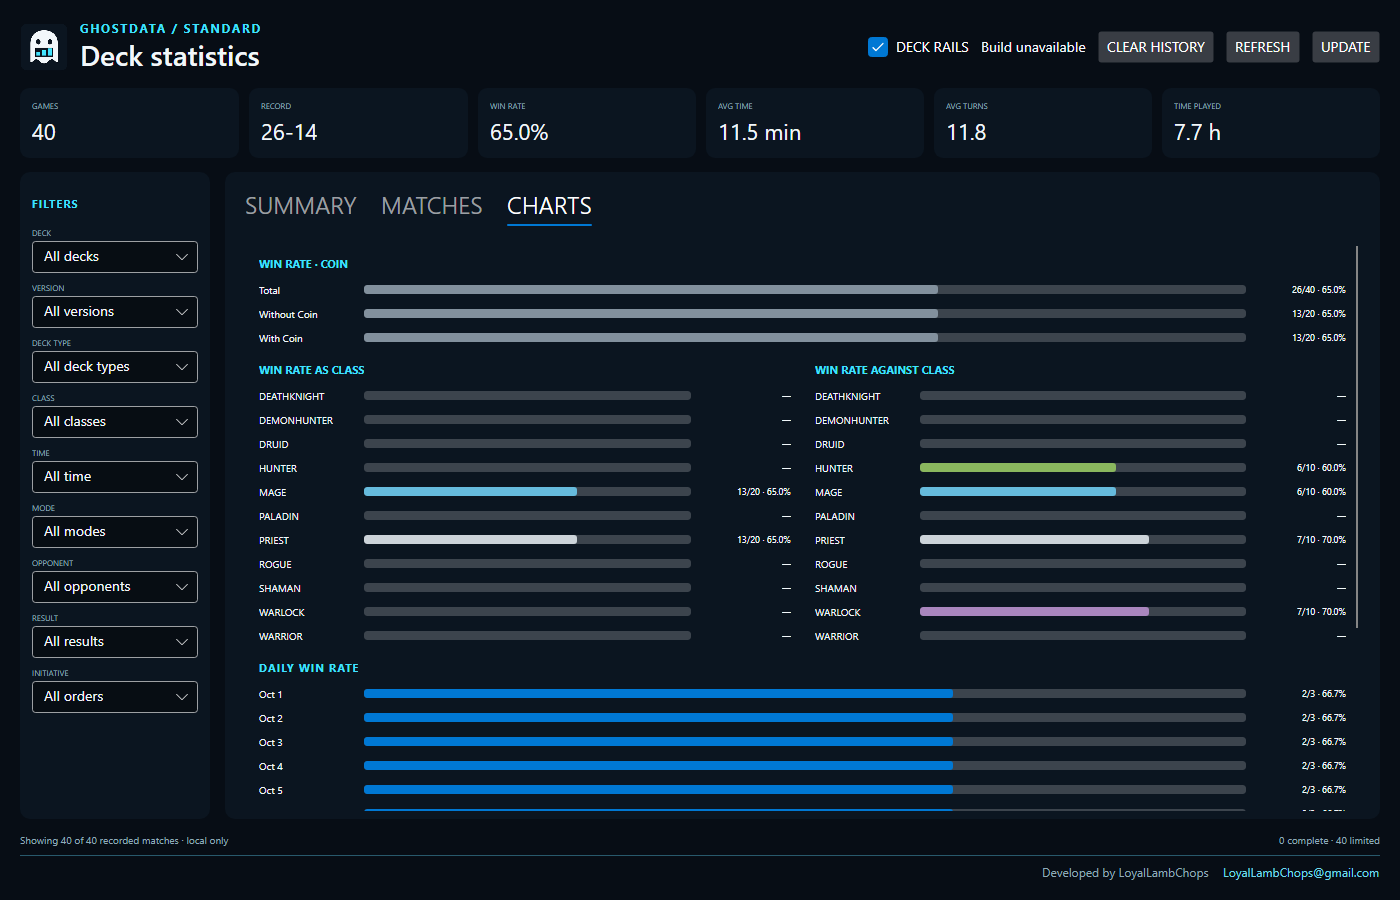
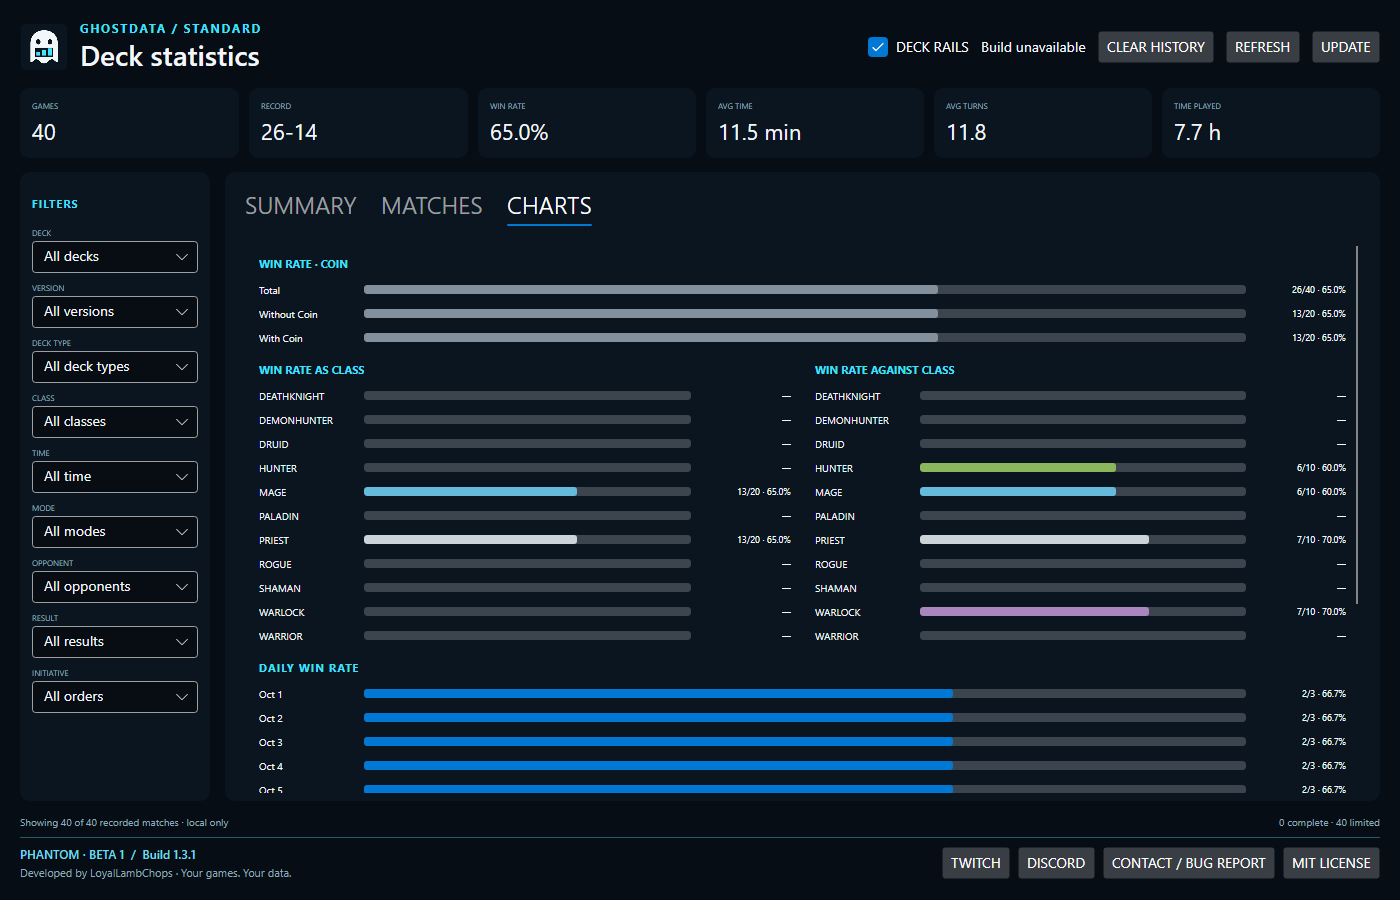
Introduce MIT-licensed Phantom Beta 1 with community links and beta updates

Changed region(s): [[0.6757, 0.9022, 1.0, 0.9956], [0.2764, 0.8711, 0.8907, 0.9022], [0.0, 0.9022, 0.215, 0.9956]]

diff --git a/app/GhostData.App/DashboardWindow.axaml.cs b/app/GhostData.App/DashboardWindow.axaml.cs
@@ -35,6 +35,8 @@ public sealed partial class DashboardWindow : Window
         _exitAfterPreview=options.ExitAfterPreview;
         if(_previewDirectory is not null)ShowActivated=false;
         AvaloniaXamlLoader.Load(this);DataContext=_viewModel;_dataService=new DashboardDataService(options);_recorder=new BackgroundRecorderProcess(options);_deckRails=new DeckRailCoordinator(this,options);
+        Title=$"GhostData — {ProductInfo.ReleaseName}";
+        this.FindControl<TextBlock>("ReleaseLabel")!.Text=$"PHANTOM · BETA 1  /  Build {ProductInfo.Version}";
         _historyRefreshTimer=new DispatcherTimer{Interval=TimeSpan.FromSeconds(4)};
         _historyRefreshTimer.Tick+=async (_,_)=>await RefreshAsync(silent:true);
         Opened+=OnOpened;Closing+=OnClosing;
@@ -51,7 +53,7 @@ public sealed partial class DashboardWindow : Window
             var opponent=new OpponentDeckWindow(); opponent.ViewModel.Apply(state); opponent.Position=new Avalonia.PixelPoint(30,100);
             var secrets=new SecretTrackerWindow(); secrets.ViewModel.Apply(state); secrets.Position=new Avalonia.PixelPoint(255,100);
             foreach(var window in new Window[]{player,opponent,secrets}) { _previewWindows.Add(window); window.Show(); }
-            Title="GhostData — Preview (sample data)";
+            Title=$"GhostData — {ProductInfo.ReleaseName} — Preview (sample data)";
             await Task.Delay(500);
             foreach(var pair in _previewWindows.Select((window,index)=>(window,index))) SavePreview(pair.window, $"rail-{pair.index}.png");
             SavePreview(this, "dashboard-summary.png");
@@ -130,6 +132,37 @@ public sealed partial class DashboardWindow : Window
             _closing=false;_closedCleanly=true;return;
         }
         _lifetime.Dispose();_closedCleanly=true;Close();
+    }
+    private async void OnTwitchClicked(object? sender,RoutedEventArgs e) => await OpenContactAsync(ProductInfo.Twitch);
+    private async void OnDiscordClicked(object? sender,RoutedEventArgs e) => await OpenContactAsync(ProductInfo.Discord);
+    private async void OnContactClicked(object? sender,RoutedEventArgs e) => await OpenContactAsync(ProductInfo.BugReportUri);
+    private async Task OpenContactAsync(string uri)
+    {
+        try { System.Diagnostics.Process.Start(new System.Diagnostics.ProcessStartInfo(uri){UseShellExecute=true}); }
+        catch
+        {
+            await ShowInformationAsync("Contact GhostData", "Windows could not open the link. Configure a default browser or email app, or copy the address below.\n\n"
+                + (uri.StartsWith("mailto:",StringComparison.Ordinal) ? ProductInfo.Email : uri)
+                + "\n\nGhostData sends no email or diagnostic data automatically.");
+        }
+    }
+    private async void OnLicenseClicked(object? sender,RoutedEventArgs e)
+    {
+        using var stream=typeof(ProductInfo).Assembly.GetManifestResourceStream("GhostData.LICENSE")!;
+        using var reader=new StreamReader(stream);
+        await ShowInformationAsync("GhostData — MIT license",await reader.ReadToEndAsync()
+            + "\nBundled third-party components retain their own licenses. See THIRD_PARTY_NOTICES.md and licenses/ in the application folder. This license does not grant rights to Blizzard game content.");
+    }
+    private async Task ShowInformationAsync(string title,string text)
+    {
+        var dialog=new Window{Title=title,Width=660,Height=540,MinWidth=440,MinHeight=300,WindowStartupLocation=WindowStartupLocation.CenterOwner};
+        var close=new Button{Content="CLOSE",HorizontalAlignment=HorizontalAlignment.Right,Margin=new Thickness(0,12,0,0)};
+        close.Click+=(_,_)=>dialog.Close();
+        var panel=new DockPanel{Margin=new Thickness(24)};
+        DockPanel.SetDock(close,Dock.Bottom); panel.Children.Add(close);
+        panel.Children.Add(new ScrollViewer{Content=new SelectableTextBlock{Text=text,TextWrapping=Avalonia.Media.TextWrapping.Wrap,FontSize=14}});
+        dialog.Content=panel;
+        await dialog.ShowDialog(this);
     }
     private async void OnUpdateClicked(object? sender,RoutedEventArgs e)
     {

diff --git a/tests/test_updates.py b/tests/test_updates.py
@@ -7,7 +7,7 @@ import unittest
 from unittest.mock import patch
 from urllib.error import HTTPError
 import zipfile
-from ghostdata.updates import stage_release, validate_members, validate_package, version, installation_context
+from ghostdata.updates import stage_release, validate_members, validate_package, version, installation_context, select_release
 
 
 class UpdateTests(unittest.TestCase):
@@ -19,6 +19,25 @@ class UpdateTests(unittest.TestCase):
         self.assertGreater(version("v1.10.0"), version("1.9.0"))
         for value in ("main", "v1.2.3-beta", "../1.2.3", "https://other"):
             with self.assertRaises(ValueError): version(value)
+
+    def test_channels_choose_highest_numeric_published_version(self):
+        releases = [dict(tag_name="v1.9.0"), dict(tag_name="v1.10.0",prerelease=True),
+                    dict(tag_name="v99.0.0",draft=True), dict(tag_name="main"),
+                    dict(tag_name="v1.11.0-beta",prerelease=True)]
+        self.assertEqual(select_release(releases,"beta")["tag_name"],"v1.10.0")
+        self.assertEqual(select_release(releases,"stable")["tag_name"],"v1.9.0")
+        self.assertIsNone(select_release([releases[1]],"stable"))
+        releases.append(dict(tag_name="v2.0.0"))
+        self.assertEqual(select_release(releases,"beta")["tag_name"],"v2.0.0")
+
+    def test_empty_listing_is_unavailable(self):
+        def fetch(url,target,limit): target.write_text("[]")
+        with patch("ghostdata.updates.fetch",side_effect=fetch):
+            self.assertEqual(stage_release(self.root)["status"],"UNAVAILABLE")
+
+    def test_invalid_release_listing_is_rejected(self):
+        with self.assertRaises(ValueError): select_release({},"beta")
+        with self.assertRaises(ValueError): select_release([],"typo")
 
     def test_archive_rejects_traversal_devices_ads_and_duplicates(self):
         for names in (("../outside",), ("/absolute",), ("C:/outside",), ("a\\b",), ("NUL.txt",), ("file:stream",), ("a", "A")):
@@ -44,7 +63,7 @@ class UpdateTests(unittest.TestCase):
 
     def test_source_checkout_can_never_be_replaced(self):
         def fetch(url, target, limit):
-            target.write_text(json.dumps(dict(tag_name="v99.0.0",assets=[])))
+            target.write_text(json.dumps([dict(tag_name="v99.0.0",assets=[],prerelease=True)]))
         with patch("ghostdata.updates.fetch",side_effect=fetch):
             result=stage_release(self.root)
         self.assertEqual(result["status"],"SOURCE_CHECKOUT")

diff --git a/ghostdata/updates.py b/ghostdata/updates.py
@@ -10,11 +10,11 @@ from urllib.error import HTTPError
 from urllib.parse import urlparse
 from urllib.request import Request, build_opener, HTTPRedirectHandler
 import zipfile
-from . import __version__
+from . import __version__, __release_channel__
 from .local_card_data import import_card_data
 
 REPOSITORY = "LoyalLambChops/GhostData"
-API = f"https://api.github.com/repos/{REPOSITORY}/releases/latest"
+API = f"https://api.github.com/repos/{REPOSITORY}/releases?per_page=100"
 ARCHIVE = "GhostData-win-x64.zip"
 MAX_ARCHIVE = 180 * 1024 * 1024
 MAX_EXPANDED = 600 * 1024 * 1024
@@ -24,6 +24,24 @@ def version(value):
     if not re.fullmatch(r"v?\d+\.\d+\.\d+", str(value)):
         raise ValueError("Unrecognized release version.")
     return tuple(map(int, value.lstrip("v").split(".")))
+
+
+def select_release(releases, channel):
+    """Use numeric tags for upgrade ordering, GitHub's flag for beta status."""
+    if channel not in {"beta", "stable"} or not isinstance(releases, list):
+        raise ValueError("Unrecognized release channel or release listing.")
+    eligible = []
+    for release in releases:
+        if not isinstance(release, dict) or release.get("draft"):
+            continue
+        if release.get("prerelease") and channel != "beta":
+            continue
+        try:
+            number = version(release.get("tag_name", ""))
+        except ValueError:
+            continue
+        eligible.append((number, release))
+    return max(eligible, key=lambda entry: entry[0])[1] if eligible else None
 
 
 class ReleaseRedirects(HTTPRedirectHandler):
@@ -104,8 +122,9 @@ def stage_release(root: Path):
         except HTTPError as exc:
             if exc.code == 404: return {"status":"UNAVAILABLE", "message":"No public GhostData release is available."}
             raise
-        release = json.loads(metadata.read_text(encoding="utf-8"))
-        if release.get("draft") or release.get("prerelease"): raise ValueError("Release is not a stable published build.")
+        release = select_release(json.loads(metadata.read_text(encoding="utf-8")), __release_channel__)
+        if release is None:
+            return {"status":"UNAVAILABLE", "message":"No compatible public GhostData release is available."}
         tag = release.get("tag_name", "")
         if version(tag) <= version(__version__): return {"status":"CURRENT", "message":"GhostData is up to date."}
         marker = root / "ghostdata-release.json"

diff --git a/app/GhostData.App/Services/ProductInfo.cs b/app/GhostData.App/Services/ProductInfo.cs
@@ -1,0 +1,13 @@
+namespace GhostData.App.Services;
+
+internal static class ProductInfo
+{
+    public const string ReleaseName = "Phantom - Beta 1";
+    public static string Version => typeof(ProductInfo).Assembly.GetName().Version!.ToString(3);
+    public const string Email = "LoyalLambChops@gmail.com";
+    public const string Twitch = "https://www.twitch.tv/loyallambchops";
+    public const string Discord = "https://discord.gg/H3Et7NHavZ";
+    public static string BugReportUri => "mailto:" + Email
+        + "?subject=" + Uri.EscapeDataString($"GhostData {ReleaseName} ({Version}) - bug report / feedback")
+        + "&body=" + Uri.EscapeDataString("What happened:\r\n\r\nWhat I expected:\r\n\r\nSteps to reproduce:\r\n\r\nWindows / Hearthstone version:\r\n\r\nPlease review any screenshots or logs before attaching them. GhostData attaches nothing automatically.");
+}

diff --git a/sensor/GhostData.Sensor/Program.cs b/sensor/GhostData.Sensor/Program.cs
@@ -11,7 +11,7 @@ namespace GhostData.Sensor
 {
     internal static class Program
     {
-        private const string SensorVersion = "1.3.0";
+        private const string SensorVersion = "1.3.1";
         private const string Provider = "ghostdata_sensor_unityspy";
 
         private static int Main(string[] args)

diff --git a/ghostdata/__init__.py b/ghostdata/__init__.py
@@ -1,3 +1,5 @@
 """GhostData: local Hearthstone match history."""
 
-__version__ = "1.3.0"
+__version__ = "1.3.1"
+__release_name__ = "Phantom - Beta 1"
+__release_channel__ = "beta"

diff --git a/docs/PUBLIC_RELEASE_READINESS.md b/docs/PUBLIC_RELEASE_READINESS.md
@@ -1,13 +1,13 @@
 # Public release readiness
 
-Assessment: October 25, 2026. Version 1.3.0 is a locally validated packaging candidate. This checklist separates completed engineering from public-release gates.
+Assessment: October 25, 2026. Phantom · Beta 1 (build 1.3.1) is the current release candidate. This checklist separates completed engineering from public-release gates.
 
 ## Current state
 
 - The self-contained Windows x64 package already bundles Python and .NET. End users can run `GhostData.App.exe` directly; build scripts are for contributors.
 - The .NET 10 candidate payload is approximately 129 MiB unpacked. This is a package-size measurement, not a CPU/RAM performance claim.
 - GitHub has no release assets published. The repository is private.
-- There is no root project LICENSE. Third-party notices do not license GhostData's own code.
+- MIT was selected by the copyright holder on October 25. LICENSE covers original software, is embedded in the UI and included in both package formats. Third-party components retain their own notices.
 - An unsigned installer candidate is implemented and tested locally. A release CI workflow remains outstanding. The maintainer chose an unsigned initial release on October 25; signing is optional future work.
 - The Update button supports verified release ZIPs in portable and installed layouts, staging, install-on-exit and startup rollback; uninstall metadata stays outside the swapped payload. Public download/update acceptance is outstanding.
 - App screenshots in the README are synthetic-data renders.
@@ -39,12 +39,7 @@ Inno Setup is a suitable lightweight installer builder: it supports a single set
 
 ## License and signing decisions
 
-Select a project license before calling the public repository open-source. Making a repository public alone does not grant general reuse rights.
-
-- **MIT:** simple permissive reuse, including proprietary derivatives; attribution/license notices remain required.
-- **GPL-3.0:** distributed derivative versions must preserve the applicable source-sharing and same-license obligations. Better aligned if the goal is to keep distributed modifications open. Both licenses allow commercial use; free/open does not prohibit resale.
-
-The copyright holder must choose the license. Review contributions and dependency compatibility, then add LICENSE, source/package metadata, About/license links, and include the license in both installer and portable distributions. Keep third-party/game-content rights separate.
+The maintainer selected MIT on October 25. The root LICENSE, C# package metadata, offline dashboard license viewer, portable payload and website reflect this decision. MIT permits modification and commercial reuse with the required notice; no additional anti-modification restrictions are imposed. Third-party and game-content rights remain separate.
 
 The initial release will be unsigned, as chosen by the maintainer on October 25. A code-signing certificate is not a release gate. Clearly label the downloads as unsigned, publish SHA-256 checksums, and test Windows download-origin behavior. Checksums do not authenticate the publisher. SmartScreen may warn, and Smart App Control or managed policies may block execution; do not promise every Windows device can run the unsigned build. Signing identifies a publisher and can help build reputation, but does not guarantee warning-free installation.
 
@@ -65,7 +60,7 @@ Signing can be reconsidered later if installation friction warrants it. No certi
 - [ ] Resolve the previously removed promotional commit's remaining GitHub cached access before treating those excluded files as local-only in a public repository. Clean branch history alone is not a purge of cached commits.
 - [ ] Publish GitHub Release assets with release notes, supported Windows architecture, known limitations, checksums and matching source tag; verify unauthenticated downloads and updater behavior when access is opened.
 
-Do not change repository visibility, buy a certificate, accept signing-service terms, or select a license as an incidental packaging operation.
+Do not change repository visibility, buy a certificate, accept signing-service terms, as an incidental packaging operation.
 
 ## References
 

diff --git a/README.md b/README.md
@@ -1,11 +1,11 @@
-# GhostData 1.3.0
+# GhostData — Phantom · Beta 1
 
 ![GhostData](.github/assets/ghostdata-banner.png)
 
 GhostData is a local Windows dashboard and deterministic deck tracker for Hearthstone Standard.
 
 Developed by **LoyalLambChops** · **LoyalLambChops@gmail.com**.
-Version 1.3.0 is a packaging candidate: a Windows installer with branded shortcuts, bundled .NET 10, and single-instance startup. Public release, licensing and signing are still pending.
+**Free software under the [MIT License](LICENSE).** Phantom · Beta 1 (build 1.3.1) includes a Windows installer, branded shortcuts, bundled runtimes, and in-app community/contact links. This candidate is unsigned; the public download remains pending clean-machine and live-game release checks.
 
 This repository starts from the GhostData 1.2.0 source baseline. Version 1.2.1 corrects stale selected-deck handling on late starts and session changes. It includes the current app,
 sensor, build tooling, manuals and synthetic tests. Personal match history,
@@ -22,7 +22,7 @@ open; see the [validation ledger](docs/parity_validation.md).
 
 ## See GhostData
 
-The screenshots below show the actual **GhostData 1.2.2** interface with **synthetic sample data**, not personal match history or measured performance. Preview mode runs without attaching to Hearthstone, so the game build is shown as unavailable.
+The screenshots below show the actual **GhostData Phantom · Beta 1** dashboard with **synthetic sample data**, not personal match history or measured performance. Preview mode runs without attaching to Hearthstone, so the game build is shown as unavailable.
 
 ### Statistics dashboard
 
@@ -65,7 +65,7 @@ The screenshots below show the actual **GhostData 1.2.2** interface with **synth
 
 ## Start
 
-The installer candidate is `GhostData-Setup-1.3.0-x64.exe`. It installs for the current user, creates a Start Menu shortcut, offers a Desktop shortcut, and can launch GhostData when setup finishes. No build step or command prompt is needed. Windows uninstall preserves your local match history. A public download will be linked after release checks are complete.
+The installer candidate is `GhostData-Setup-1.3.1-x64.exe`. It installs for the current user, creates a Start Menu shortcut, offers a Desktop shortcut, and can launch GhostData when setup finishes. No build step or command prompt is needed. Windows uninstall preserves your local match history. A public download will be linked after release checks are complete.
 
 For the portable package, extract the entire ZIP to a writable folder and open
 `GhostData.App.exe`. Keep the folder together. Start Hearthstone and reach its
@@ -89,3 +89,11 @@ builds, tests and maintenance. Both describe current behavior and its limitation
 
 See [third-party notices](THIRD_PARTY_NOTICES.md) and
 [tracking coverage and verification](docs/tracking_coverage.md).
+
+## License and community
+
+GhostData's original source and documentation are licensed under MIT, copyright (c) 2026 LoyalLambChops. MIT permits use, modification and redistribution, including commercial use, with the required notice. Bundled components retain their respective licenses: see [third-party notices](THIRD_PARTY_NOTICES.md). The software license does not grant rights to Blizzard content or trademarks.
+
+[Website](https://loyallambchops.github.io/ghostdata-site/) · [Discord](https://discord.gg/H3Et7NHavZ) · [Twitch](https://www.twitch.tv/loyallambchops) · [Email / bug reports](mailto:LoyalLambChops@gmail.com)
+
+Dashboard buttons open your browser or an email draft. No logs or history are automatically attached or sent. The **MIT LICENSE** button works offline.

diff --git a/docs/TECHNICAL_MANUAL.md b/docs/TECHNICAL_MANUAL.md
@@ -1,6 +1,6 @@
 # GhostData technical manual
 
-Version 1.3.0 packaging candidate - Updated October 22, 2026
+Phantom · Beta 1 (build 1.3.1) - Updated October 25, 2026
 
 This manual describes the application in this repository: a Windows Avalonia
 dashboard and deterministic Standard tracker, backed by Python and an open-source
@@ -537,7 +537,7 @@ Installer integration tests use a separate application identity, shortcut names,
 
 ```powershell
 powershell -NoProfile -ExecutionPolicy Bypass -File tools/Build-Installer.ps1 -OutputDirectory dist/installer-test -AppId E10FD240-677C-4875-8744-711F6B2A2136 -DisplayName "GhostData Packaging Test"
-powershell -NoProfile -ExecutionPolicy Bypass -File tools/Test-Installer.ps1 -Installer dist/installer-test/GhostData-Setup-1.3.0-x64.exe
+powershell -NoProfile -ExecutionPolicy Bypass -File tools/Test-Installer.ps1 -Installer dist/installer-test/GhostData-Setup-1.3.1-x64.exe
 ```
 
 The integration test installs, renders the UI, verifies shortcuts, replaces an obsolete-file fixture, exercises successful and failed-start updates, uninstalls, and checks that the isolated history sentinel remains unchanged. It changes only its separate test identity, but should run on a test machine or clean VM before release. Local passing results do not replace clean-machine acceptance.
@@ -610,3 +610,11 @@ The dashboard includes the GhostData mark and a selectable contact address.
 The original icon is embedded in the application for the window, taskbar and Windows shortcuts; it requires no network access.
 
 `tools/Build-BrandAssets.ps1` regenerates the committed PNG and nine-resolution ICO (16–256 pixels) from original vector geometry using Windows System.Drawing. Assets are embedded as Avalonia resources; the ICO is also the Windows executable icon. The generator is a development tool, adds no runtime dependency and is not shipped in the portable package.
+
+## Phantom beta release identity and support
+
+Public display name: Phantom - Beta 1. Numeric version: 1.3.1, retained above the earlier internal builds for monotonic upgrades. Keep VERSION, Python __version__, C# project versions and sensor protocol version aligned. ProductInfo defines the friendly name and fixed contact destinations; Python __release_channel__ is beta. A future stable build sets the channel to stable.
+
+The explicit updater requests the repository's latest 100 releases, rejects drafts and non-numeric tags, and selects the highest numeric eligible version. Beta installations accept GitHub prereleases and stable builds; stable installations exclude prereleases. Tags stay vMAJOR.MINOR.PATCH, including betas; use the GitHub prerelease flag and release title for the beta identity. Existing URL, digest, inventory and startup rollback verification remains in force. Older stable installations retain their existing stable-only behavior.
+
+LICENSE is copied into the portable payload (and therefore Setup), and embedded in the UI assembly for offline viewing. Third-party notices remain separate. Contact links invoke the default Windows handler only after a button click. The email draft contains a version and blank report fields, never automatic diagnostics or history uploads.

diff --git a/docs/USER_MANUAL.md b/docs/USER_MANUAL.md
@@ -1,6 +1,6 @@
 # GhostData user manual
 
-Version 1.3.0 packaging candidate - Updated October 22, 2026
+Phantom · Beta 1 (build 1.3.1) - Updated October 25, 2026
 
 GhostData is a local Windows application for Hearthstone Standard match history,
 deck tracking, quests and public Secret deductions. The dashboard and overlays
@@ -33,7 +33,7 @@ separates verified behavior from remaining live acceptance work. The
 
 ### Windows installer (recommended)
 
-1. Run `GhostData-Setup-1.3.0-x64.exe` from the candidate package. After public release, obtain Setup from this project's GitHub Releases.
+1. Run `GhostData-Setup-1.3.1-x64.exe` from the candidate package. After public release, obtain Setup from this project's GitHub Releases.
 2. The default destination is `%LOCALAPPDATA%\Programs\GhostData`, for the current Windows user. Setup does not require administrator privileges.
 3. Choose whether to create a Desktop shortcut. A branded Start Menu shortcut is created automatically.
 4. Leave **Launch GhostData** selected to open the dashboard after setup. Subsequent launches use either shortcut. Launching again brings the existing dashboard forward.
@@ -420,3 +420,11 @@ claims remain unverified.
 Developed by **LoyalLambChops** · **LoyalLambChops@gmail.com**.
 The dashboard includes the GhostData mark and a selectable contact address.
 The original icon is embedded in the application for the window, taskbar and Windows shortcuts; it requires no network access.
+
+## Community, feedback and license
+
+The dashboard footer identifies **Phantom · Beta 1**, build **1.3.1**. TWITCH opens https://www.twitch.tv/loyallambchops; DISCORD opens https://discord.gg/H3Et7NHavZ in your default browser. CONTACT / BUG REPORT opens your email application with a draft addressed to LoyalLambChops@gmail.com. It includes the app version and a blank report template. Nothing is sent automatically and no files or match data are attached. Review any details you choose to share. If Windows cannot open the link, GhostData shows an address you can select and copy.
+
+MIT LICENSE opens the original-software license offline. Dependency notices are included separately. The beta is free and unsigned; Windows may warn or block it according to security policy. A signing certificate is not required by GhostData.
+
+UPDATE is explicit: this beta can offer a newer published beta or stable GhostData build. Numeric versions determine upgrade order; the release nickname is for display. It never downgrades to an older build. While the repository is private or has no compatible published release, the updater reports unavailable.

diff --git a/packaging/PORTABLE_README.md b/packaging/PORTABLE_README.md
@@ -1,4 +1,4 @@
-# GhostData
+# GhostData — Phantom · Beta 1 (build 1.3.1)
 
 Developed by LoyalLambChops · LoyalLambChops@gmail.com
 
@@ -18,6 +18,14 @@ UPDATE refreshes locally available card definitions and checks the GhostData Git
 
 ## Help
 
-Read docs/USER_MANUAL.md and docs/TECHNICAL_MANUAL.md. Dependency licenses are in licenses/ and THIRD_PARTY_NOTICES.md. This build is a packaging candidate; public licensing/signing and remaining live acceptance are separate release gates.
+Read docs/USER_MANUAL.md and docs/TECHNICAL_MANUAL.md. Dependency licenses are in licenses/ and THIRD_PARTY_NOTICES.md. GhostData is free software under the included MIT LICENSE. This beta is unsigned; Windows may warn or block it under your security policy. Remaining clean-machine and live acceptance is tracked in docs/PUBLIC_RELEASE_READINESS.md.
 
 Project: https://github.com/LoyalLambChops/GhostData
+
+The dashboard includes TWITCH, DISCORD, CONTACT / BUG REPORT and an offline MIT LICENSE viewer. Email opens a draft; nothing is automatically attached or sent.
+
+Twitch: https://www.twitch.tv/loyallambchops
+Discord: https://discord.gg/H3Et7NHavZ
+Website: https://loyallambchops.github.io/ghostdata-site/
+
+This beta checks for newer published beta or stable versions when you click UPDATE.
